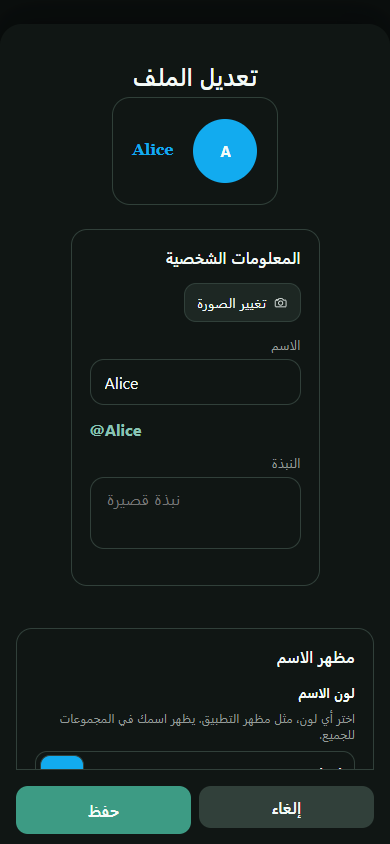
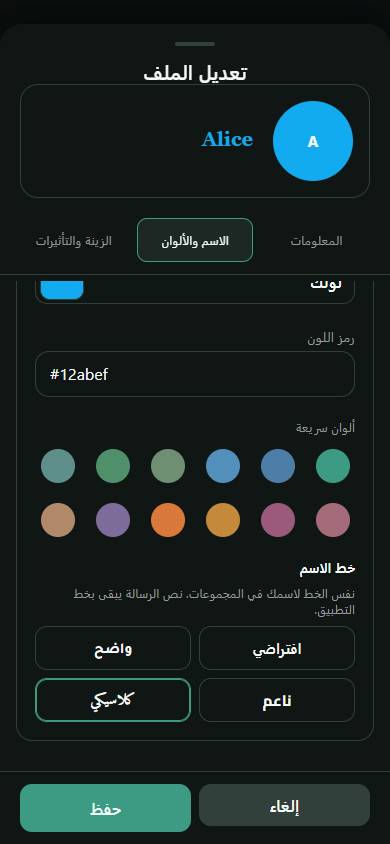
Redesign profile editor with persistent preview and proportionate vector cosmetics

diff --git a/src/pages/ProfilePage.tsx b/src/pages/ProfilePage.tsx
@@ -37,6 +37,9 @@ export default function ProfilePage({ embedded = false, onShowSettings, scrollHo
   const photoRef = useRef<HTMLInputElement>(null);
   const bannerRef = useRef<HTMLInputElement>(null);
   const [editing, setEditing] = useState(false);
+  const [editorTab, setEditorTab] = useState<'details' | 'name' | 'effects'>('details');
+  const editorFields = useRef<HTMLDivElement>(null);
+  const editorDialog = useRef<HTMLDivElement>(null);
   const [confirmLeave, setConfirmLeave] = useState(false);
   const [bannerPreview, setBannerPreview] = useState('');
   const [displayName, setDisplayName] = useState(currentUser.displayName);
@@ -57,6 +60,22 @@ export default function ProfilePage({ embedded = false, onShowSettings, scrollHo
     return () => window.removeEventListener('focus', onFocus);
   }, [scrollHold]);
 
+  useEffect(() => {
+    if (!editing) return;
+    const previous = document.activeElement instanceof HTMLElement ? document.activeElement : null;
+    const frame = window.requestAnimationFrame(() => editorDialog.current?.querySelector<HTMLButtonElement>('[role="tab"][aria-selected="true"]')?.focus());
+    const onKey = (event: KeyboardEvent) => {
+      if (event.key === 'Escape') { event.preventDefault(); setEditing(false); return; }
+      if (event.key !== 'Tab') return;
+      const controls = [...(editorDialog.current?.querySelectorAll<HTMLElement>('button:not(:disabled), input:not(:disabled), textarea:not(:disabled), [tabindex="0"]') ?? [])].filter(node => node.getClientRects().length > 0 && node.tabIndex >= 0);
+      const first = controls[0], last = controls.at(-1);
+      if (event.shiftKey && document.activeElement === first) { event.preventDefault(); last?.focus(); }
+      else if (!event.shiftKey && document.activeElement === last) { event.preventDefault(); first?.focus(); }
+    };
+    document.addEventListener('keydown', onKey);
+    return () => { window.cancelAnimationFrame(frame); document.removeEventListener('keydown', onKey); previous?.focus(); };
+  }, [editing]);
+
   const openEditor = () => {
     setDisplayName(currentUser.displayName);
     setDraftBio(currentUser.bio);
@@ -65,6 +84,7 @@ export default function ProfilePage({ embedded = false, onShowSettings, scrollHo
     setDraftDecoration(currentUser.avatarDecoration ?? 'none');
     setDraftEffect(currentUser.profileEffect ?? 'none');
     setSaveError('');
+    setEditorTab('details');
     setEditing(true);
   };
 
@@ -252,16 +272,27 @@ export default function ProfilePage({ embedded = false, onShowSettings, scrollHo
         )}
       {editing &&
         createPortal(
-          <div className="app-scrim sheet" onClick={() => setEditing(false)}>
-            <div className="app-sheet profile-pop profile-editor" role="dialog" aria-label="تعديل الملف" onClick={(event) => event.stopPropagation()}>
-              <span className="app-handle" />
+          <div className="app-scrim sheet profile-editor-scrim" onClick={() => setEditing(false)}>
+            <div ref={editorDialog} className="app-sheet profile-pop profile-editor" role="dialog" aria-modal="true" aria-label="تعديل الملف" onClick={(event) => event.stopPropagation()}>
+              <div className="profile-editor-header"><span className="app-handle" />
               <h2>تعديل الملف</h2>
               <div className="cosmetic-preview" aria-label="معاينة مظهر الملف">
                 <ProfileEffect effect={draftEffect} color={draftColor} />
-                <Avatar name={displayName || currentUser.displayName} color={draftColor} size={64} src={currentUser.avatarUrl} decoration={draftDecoration} animate={animate} />
+                <Avatar name={displayName || currentUser.displayName} color={draftColor} size={80} src={currentUser.avatarUrl} decoration={draftDecoration} animate={animate} />
                 <strong {...displayNameStyleForUser(draftColor, draftFont)} dir="auto">{displayName || currentUser.displayName}</strong>
               </div>
-              <section className="profile-editor-section"><h3>المعلومات الشخصية</h3>
+              </div>
+              <div className="profile-editor-tabs" role="tablist" aria-label="أقسام تعديل الملف" onKeyDown={event => {
+                const tabs = ['details', 'name', 'effects'] as const;
+                const next = event.key === 'Home' ? 0 : event.key === 'End' ? 2 : event.key === 'ArrowLeft' ? (tabs.indexOf(editorTab) + 1) % 3 : event.key === 'ArrowRight' ? (tabs.indexOf(editorTab) + 2) % 3 : -1;
+                if (next < 0) return;
+                event.preventDefault(); setEditorTab(tabs[next]); editorFields.current?.scrollTo(0, 0);
+                document.getElementById('profile-tab-' + tabs[next])?.focus();
+              }}>
+                {([{ id: 'details', label: 'المعلومات' }, { id: 'name', label: 'الاسم والألوان' }, { id: 'effects', label: 'الزينة والتأثيرات' }] as const).map(tab => <button type="button" key={tab.id} id={'profile-tab-' + tab.id} role="tab" aria-selected={editorTab === tab.id} aria-controls={'profile-panel-' + tab.id} tabIndex={editorTab === tab.id ? 0 : -1} onClick={() => { setEditorTab(tab.id); editorFields.current?.scrollTo(0, 0); }}>{tab.label}</button>)}
+              </div>
+              <div className="profile-editor-fields" ref={editorFields}>
+              <section id="profile-panel-details" role="tabpanel" aria-labelledby="profile-tab-details" hidden={editorTab !== 'details'} className="profile-editor-section"><h3>المعلومات الشخصية</h3>
               <button type="button" className="profile-photo-action" onClick={pickPhoto}><IonIcon icon={cameraOutline} /> تغيير الصورة</button>
               <label className="group-name">
                 <span>الاسم</span>
@@ -273,7 +304,7 @@ export default function ProfilePage({ embedded = false, onShowSettings, scrollHo
                 <textarea dir="auto" maxLength={160} value={draftBio} placeholder="نبذة قصيرة" onChange={(event) => setDraftBio(event.target.value)} />
               </label>
               </section>
-              <section className="profile-editor-section"><h3>مظهر الاسم</h3>
+              <section id="profile-panel-name" role="tabpanel" aria-labelledby="profile-tab-name" hidden={editorTab !== 'name'} className="profile-editor-section"><h3>مظهر الاسم</h3>
               <div className="profile-style-block">
                 <span className="profile-style-title">لون الاسم</span>
                 <p className="profile-style-hint">اختر أي لون، مثل مظهر التطبيق. يظهر اسمك في المجموعات للجميع.</p>
@@ -339,12 +370,12 @@ export default function ProfilePage({ embedded = false, onShowSettings, scrollHo
                 </div>
               </div>
               </section>
-              <section className="profile-editor-section"><h3>الزينة والتأثيرات</h3>
+              <section id="profile-panel-effects" role="tabpanel" aria-labelledby="profile-tab-effects" hidden={editorTab !== 'effects'} className="profile-editor-section"><h3>الزينة والتأثيرات</h3>
               <div className="profile-style-block">
                 <span className="profile-style-title">زينة الصورة</span>
-                <p className="profile-style-hint">اختر الزينة أو أزلها. القبعة تتحرك داخل الملف فقط، وتبقى ثابتة في وضع التوفير وعلى الأجهزة الضعيفة.</p>
+                <p className="profile-style-hint">اختر زينة للصورة وتأثيرًا للملف. المعاينة تبقى أمامك، والحركة تتوقف في وضع التوفير وعلى الأجهزة الضعيفة.</p>
                 <div className="cosmetic-options" role="group" aria-label="زينة الصورة">
-                  {AVATAR_DECORATIONS.map(item => <button key={item.id} type="button" aria-pressed={draftDecoration === item.id} className={draftDecoration === item.id ? 'is-on' : ''} onClick={() => setDraftDecoration(item.id)}>{item.label}</button>)}
+                  {AVATAR_DECORATIONS.map(item => <button key={item.id} type="button" aria-pressed={draftDecoration === item.id} className={draftDecoration === item.id ? 'is-on' : ''} onClick={() => setDraftDecoration(item.id)}><Avatar name={displayName || currentUser.displayName} color={draftColor} size={48} src={currentUser.avatarUrl} decoration={item.id} /><span>{item.label}</span></button>)}
                 </div>
                 <span className="profile-style-title">تأثير الملف</span>
                 <div className="cosmetic-options" role="group" aria-label="تأثير الملف">
@@ -352,6 +383,7 @@ export default function ProfilePage({ embedded = false, onShowSettings, scrollHo
                 </div>
               </div>
               </section>
+              </div>
               {saveError ? <p className="form-error">{saveError}</p> : null}
               <div className="account-actions profile-editor-footer">
                 <button type="button" onClick={() => setEditing(false)}>إلغاء</button>

diff --git a/src/components/common/ProfileCosmetics.css b/src/components/common/ProfileCosmetics.css
@@ -1,11 +1,23 @@
-.avatar-frame { position:relative; display:inline-flex; flex-shrink:0; vertical-align:middle; overflow:visible; }
-.avatar-frame::after { content:''; position:absolute; inset:-4px; border-radius:50%; pointer-events:none; border:2px solid var(--cosmetic-color); }
-.decoration-orbit::after { border-style:dashed; outline:1px solid var(--cosmetic-color); outline-offset:3px; }
-.decoration-laurel::after { border:4px double #cba759; border-left-color:var(--cosmetic-color); border-right-color:var(--cosmetic-color); }
-.decoration-prism::after { border-radius:30%; transform:rotate(45deg); border:3px solid var(--cosmetic-color); }
-.decoration-hat::after { inset:auto; width:140%; height:55%; left:-20%; top:-25%; border:0; border-radius:0; background:repeating-linear-gradient(78deg,transparent 0 8px,rgba(102,66,20,.18) 8px 9px),linear-gradient(135deg,#f3dca0,#c69843); clip-path:polygon(50% 0,100% 80%,88% 94%,50% 100%,12% 94%,0 80%); transform-origin:50% 85%; }
-.decoration-hat.is-animated::after { animation:profile-hat 4s ease-in-out infinite; }
-@keyframes profile-hat { 25% { transform:rotate(-4deg) translateY(-2px); } 75% { transform:rotate(4deg) translateY(-2px); } }
+.avatar-frame { position:relative; display:inline-flex; align-items:center; justify-content:center; flex:none; aspect-ratio:1; vertical-align:middle; overflow:visible; isolation:isolate; }
+.avatar-frame > .avatar { flex:none; aspect-ratio:1; box-shadow:none !important; }
+.avatar-frame::after { content:''; position:absolute; inset:2%; border-radius:50%; pointer-events:none; border:clamp(1px,.035em,3px) solid var(--cosmetic-color); }
+.decoration-orbit::after { border:2px dashed var(--cosmetic-color); }
+.decoration-laurel::after { border:3px double #d1af67; border-left-color:var(--cosmetic-color); border-right-color:var(--cosmetic-color); }
+.decoration-prism::after { border-radius:34%; transform:rotate(45deg); border:2px solid var(--cosmetic-color); inset:16%; }
+.decoration-hat { align-items:flex-end; }
+.decoration-hat::after, .decoration-dragon::after { display:none; }
+.avatar-artwork { position:absolute; inset:0; width:100%; height:100%; pointer-events:none; overflow:hidden; z-index:1; }
+.hat-crown { transform:scaleY(.72); transform-origin:60px 0; }
+.decoration-hat.is-animated .hat-artwork { animation:profile-hat 5s ease-in-out infinite; transform-origin:50% 25%; }
+.decoration-dragon.is-animated .dragon-artwork { animation:profile-dragon 7s ease-in-out infinite; }
+.decoration-dragon.is-animated .dragon-spark { animation:profile-ember 2.8s ease-in-out infinite; transform-origin:114px 55px; }
+.decoration-orbit.is-animated::after { animation:profile-orbit 24s linear infinite; }
+.decoration-prism.is-animated::after { animation:profile-prism 6s ease-in-out infinite; }
+@keyframes profile-hat { 25% { transform:rotate(-3deg) translateY(-1%); } 75% { transform:rotate(3deg) translateY(-1%); } }
+@keyframes profile-dragon { 30% { transform:rotate(-2deg); } 70% { transform:rotate(2deg); } }
+@keyframes profile-ember { 50% { opacity:.35; transform:translateY(-3px) scale(.8); } }
+@keyframes profile-orbit { to { transform:rotate(360deg); } }
+@keyframes profile-prism { 50% { transform:rotate(6deg); opacity:.7; } }
 .profile-hero, .member-sheet, .cosmetic-preview { position:relative; isolation:isolate; }
 .profile-effect { position:absolute; inset:0; border-radius:inherit; overflow:hidden; pointer-events:none; z-index:-1; }
 .profile-effect i { position:absolute; display:block; }
@@ -22,12 +34,43 @@
 .effect-stars.is-animated i { animation:profile-star 5s ease-in-out infinite alternate; }
 .effect-stars i:nth-child(2n) { animation-delay:-2s; }
 .effect-stars i:nth-child(3n) { animation-delay:-4s; }
+.effect-meteors i { height:2px; width:48px; background:linear-gradient(90deg,transparent,var(--cosmetic-color)); transform:rotate(-35deg); opacity:.35; top:18%; left:10%; }
+.effect-meteors i:nth-child(2) { top:65%; left:76%; }
+.effect-meteors i:nth-child(3) { top:85%; left:18%; }
+.effect-meteors i:nth-child(n+4) { display:none; }
+.effect-meteors.is-animated i { animation:profile-meteor 7s ease-in-out infinite; }
+.effect-meteors.is-animated i:nth-child(2) { animation-delay:-3s; }
+.effect-meteors.is-animated i:nth-child(3) { animation-delay:-5s; }
 @keyframes profile-aurora { to { transform:translate(12%,18%); opacity:.25; } }
 @keyframes profile-star { to { opacity:.75; transform:translateY(-8px) scale(1.3); } }
-.cosmetic-preview { padding:20px; border:1px solid var(--line,#304039); border-radius:18px; display:flex; align-items:center; gap:20px; overflow:hidden; min-height:108px; }
-.cosmetic-options { display:flex; flex-wrap:wrap; gap:8px; margin:12px 0; }
-.cosmetic-options button { padding:10px 14px; min-height:44px; border-radius:12px; border:1px solid var(--line,#304039); background:transparent; color:inherit; }
-.cosmetic-options button.is-on { border-color:var(--cosmetic-color,#3d9b84); background:rgba(61,155,132,.12); }
-.profile-editor { max-height:calc(100vh - 24px); max-height:calc(100dvh - 24px); overflow-y:auto; overscroll-behavior:contain; }
+@keyframes profile-meteor { 0%,65%,100% { opacity:0; transform:translate(0,0) rotate(-35deg); } 15% { opacity:.6; } 45% { opacity:0; transform:translate(45px,-30px) rotate(-35deg); } }
+.cosmetic-preview { padding:16px; border:1px solid var(--chatx-frame); border-radius:18px; display:flex; align-items:center; gap:20px; overflow:hidden; min-height:112px; background:var(--chatx-raised); }
+.cosmetic-preview strong { min-width:0; overflow-wrap:anywhere; font-size:20px; }
+.cosmetic-options { display:grid; grid-template-columns:repeat(2,minmax(0,1fr)); gap:10px; margin:12px 0; }
+.cosmetic-options button { padding:12px; min-height:48px; border-radius:12px; border:1px solid var(--chatx-frame); background:transparent; color:inherit; }
+.cosmetic-options button.is-on { border-color:var(--chatx-accent); background:var(--chatx-soft); box-shadow:inset 0 0 0 1px var(--chatx-accent); }
+.profile-pop.profile-editor { display:flex; flex-direction:column; width:min(680px,100%); max-height:calc(100vh - 24px); max-height:calc(100dvh - 24px); padding:0; overflow:hidden; overscroll-behavior:contain; }
+.profile-editor-header { padding:12px 20px 14px; flex:none; }
+.profile-editor-header h2 { margin:4px 0 12px; font-size:20px; }
+.profile-editor-tabs { display:flex; padding:0 16px 12px; gap:6px; flex:none; border-bottom:1px solid var(--chatx-frame); }
+.profile-editor-tabs button { flex:1; min-width:0; min-height:44px; padding:8px 6px; border:1px solid transparent; border-radius:10px; background:transparent; color:var(--chatx-muted); font:inherit; font-size:12px; }
+.profile-editor-tabs button[aria-selected='true'] { color:var(--chatx-text); background:var(--chatx-soft); border-color:var(--chatx-accent); }
+.profile-editor-tabs button:focus-visible { outline:2px solid var(--chatx-accent); outline-offset:2px; }
+.profile-editor-fields { min-height:0; overflow-y:auto; overscroll-behavior:contain; padding:0 16px; flex:1; }
+.profile-editor-fields .profile-editor-section { margin:16px 0; }
+.profile-editor-fields [hidden] { display:none; }
+.profile-editor .profile-editor-footer { position:static; flex:none; padding:12px 20px max(12px,env(safe-area-inset-bottom)); margin:0; border-top:1px solid var(--chatx-frame); background:var(--chatx-surface); }
 .profile-pop .user-card-banner + .avatar-frame { margin-top:-36px; position:relative; }
-@media (prefers-reduced-motion:reduce) { .profile-effect.is-animated i, .decoration-hat.is-animated::after { animation:none; } }
+@media (min-width:760px) { .profile-editor-tabs button { font-size:14px; } .profile-editor-fields { max-height:48vh; } }
+@media (max-height:550px) { .profile-editor-header { padding-top:4px; } .profile-editor-header h2 { margin:0 0 4px; font-size:16px; } .profile-editor-header .cosmetic-preview { min-height:72px; padding:8px 12px; } .profile-editor-header .avatar-frame, .profile-editor-header .avatar { transform:scale(.8); margin:-8px; } }
+@media (prefers-reduced-motion:reduce) { .profile-effect.is-animated i, .avatar-frame.is-animated::after, .avatar-frame.is-animated .avatar-artwork, .avatar-frame.is-animated .dragon-spark { animation:none; } }
+
+.cosmetic-options[aria-label="زينة الصورة"] button { display:flex; flex-direction:column; align-items:center; justify-content:center; gap:10px; min-height:100px; }
+
+.profile-editor-header, .profile-editor-tabs, .profile-editor-fields, .profile-editor .profile-editor-footer { width:100%; box-sizing:border-box; }
+
+.app-scrim.profile-editor-scrim { justify-content:center; }
+@media (min-width:760px) { .app-scrim.profile-editor-scrim { align-items:center; padding:12px; } .profile-pop.profile-editor { border-radius:22px; } }
+
+.decoration-prism::after { display:none; }
+.decoration-prism.is-animated .prism-artwork { animation:profile-prism 6s ease-in-out infinite; }

diff --git a/src/components/common/AvatarArtwork.tsx b/src/components/common/AvatarArtwork.tsx
@@ -1,0 +1,38 @@
+import type { AvatarDecoration } from '../../lib/profileCosmetics';
+
+/** Original local vector artwork; no downloads, filters, or external animation runtime. */
+export default function AvatarArtwork({ kind }: { kind: AvatarDecoration }) {
+  if (kind === 'prism') return <svg className="avatar-artwork prism-artwork" viewBox="0 0 120 120" aria-hidden="true">
+    <path d="M60 3L109 31V89L60 117L11 89V31Z" fill="none" stroke="var(--cosmetic-color)" strokeWidth="3" strokeLinejoin="round" />
+    <path d="M11 31L60 3L109 31M11 89L60 117L109 89" fill="none" stroke="#c9eee4" strokeWidth="1.5" strokeLinejoin="round" />
+    <path d="M58 2L60 8L62 2M108 87L102 89L108 91M12 29L18 31L12 33" fill="none" stroke="#f4f1cc" strokeWidth="2" />
+  </svg>;
+  if (kind === 'hat') return <svg className="avatar-artwork hat-artwork" viewBox="0 0 120 120" aria-hidden="true">
+    <g className="hat-crown">
+      <path d="M8 28Q32 15 60 2Q86 15 112 28Q103 39 60 40Q20 39 8 28Z" fill="#93692d" />
+      <path d="M8 28L60 2L112 28Q64 43 8 28Z" fill="#e7c47e" />
+      <path d="M60 2L112 28Q91 34 65 35Z" fill="#c79b50" />
+      <path d="M60 2L8 28Q31 33 46 33Z" fill="#f1d99a" />
+      <path d="M14 26Q60 38 107 26M23 22Q60 32 99 22M33 17Q60 25 87 17M43 12Q60 18 77 12" fill="none" stroke="#a57b39" strokeWidth="1.1" opacity=".65" />
+      <path d="M60 3L21 28M60 3L38 32M60 3L56 34M60 3L75 32M60 3L95 29" stroke="#fff0ba" strokeWidth="1" opacity=".65" />
+      <path d="M8 28Q60 45 112 28" fill="none" stroke="#805823" strokeWidth="2.5" />
+      <path d="M12 27L59 2" stroke="#fff2c1" strokeWidth="1.4" fill="none" />
+    </g>
+  </svg>;
+  if (kind === 'dragon') return <svg className="avatar-artwork dragon-artwork" viewBox="0 0 120 120" aria-hidden="true">
+    <g className="dragon-body">
+      <path d="M99 29C74-1 28 5 12 41C-2 75 17 108 48 111C27 105 14 84 16 66" fill="none" stroke="#123d43" strokeWidth="11" strokeLinecap="round" />
+      <path d="M99 29C74-1 28 5 12 41C-2 75 17 108 48 111C27 105 14 84 16 66" fill="none" stroke="#65cabb" strokeWidth="6" strokeLinecap="round" />
+      <path d="M20 30L14 18L30 22M37 14L37 3L48 10M58 9L67 0L69 12M79 16L90 8L89 24M8 48L0 46L6 58M9 84L2 92L17 96" fill="#b4edce" stroke="#225c60" strokeWidth="1.5" strokeLinejoin="round" />
+      <path d="M18 31L26 35M31 20L38 25M47 14L51 20M66 15L64 20M81 21L76 25M12 49L18 52M10 66L16 66M17 91L23 86" stroke="#246a67" strokeWidth="2.5" strokeLinecap="round" />
+      <path d="M89 24L95 10L100 23L112 19L109 29L117 34L109 45L99 48L91 38Z" fill="#388e84" stroke="#123d43" strokeWidth="2" strokeLinejoin="round" />
+      <path d="M94 20L90 8L97 15M105 24L114 13L111 25" fill="#edcf83" stroke="#735c36" strokeWidth="1.3" />
+      <path d="M103 34L111 34L108 39L102 40Z" fill="#91d7bd" />
+      <path d="M98 29L104 28" stroke="#fff2b2" strokeWidth="3" strokeLinecap="round" />
+      <circle cx="102" cy="28" r="1.4" fill="#142d31" />
+      <path d="M109 42Q116 45 115 51M99 46L102 52" stroke="#edd290" strokeWidth="1.5" fill="none" />
+    </g>
+    <path className="dragon-spark" d="M111 54L115 49L118 56L114 62Z" fill="#f5cc70" />
+  </svg>;
+  return null;
+}

diff --git a/src/components/common/Avatar.tsx b/src/components/common/Avatar.tsx
@@ -1,6 +1,7 @@
 import { initials } from '../../lib/conversation';
 import type { CSSProperties } from 'react';
 import { avatarDecoration, type AvatarDecoration } from '../../lib/profileCosmetics';
+import AvatarArtwork from './AvatarArtwork';
 import './ProfileCosmetics.css';
 
 type AvatarProps = {
@@ -14,17 +15,18 @@ type AvatarProps = {
 };
 
 export default function Avatar({ name, color, size = 44, slot, src, decoration, animate = false }: AvatarProps) {
-  const kind = avatarDecoration(decoration);
+  const kind = size <= 24 ? 'none' : avatarDecoration(decoration);
+  const faceSize = kind === 'none' ? size : Math.round(size * (kind === 'hat' ? 0.78 : kind === 'dragon' ? 0.74 : 0.82));
   const face = (
     <span
       slot={kind === 'none' ? slot : undefined}
       className="avatar"
-      style={{ width: size, height: size, background: src ? '#24312c' : color, fontSize: size <= 18 ? 8 : size < 36 ? 12 : 15 }}
+      style={{ width: faceSize, height: faceSize, background: src ? '#24312c' : color, fontSize: size <= 18 ? 8 : size < 36 ? 12 : 15 }}
       aria-hidden="true"
     >
       {src ? <img src={src} alt="" loading="lazy" decoding="async" /> : initials(name)}
     </span>
   );
   if (kind === 'none') return face;
-  return <span slot={slot} className={`avatar-frame decoration-${kind}${animate ? ' is-animated' : ''}`} style={{ width: size, height: size, '--cosmetic-color': color } as CSSProperties} aria-hidden="true">{face}</span>;
+  return <span slot={slot} className={`avatar-frame decoration-${kind}${animate ? ' is-animated' : ''}`} style={{ width: size, height: size, minWidth: size, minHeight: size, '--cosmetic-color': color } as CSSProperties} aria-hidden="true">{face}<AvatarArtwork kind={kind} /></span>;
 }

diff --git a/server/src/migrate.ts b/server/src/migrate.ts
@@ -6,7 +6,7 @@ export async function migrate(pool: Pool) {
     id text PRIMARY KEY,
     applied_at timestamptz NOT NULL DEFAULT now()
   )`);
-  for (const id of ['001_auth', '002_hardening', '003_directory', '004_profile', '005_avatar', '006_presence', '007_home', '008_inbox', '009_reactions', '010_chats', '011_inbox_unread', '012_message_images', '013_message_files', '014_room_profiles', '015_group_turns', '016_room_events', '017_turn_notice', '018_low_bandwidth', '019_google_subject', '020_turn_notifications', '021_owner_audit', '022_e2e', '023_e2e_backup_check', '024_push_tokens', '025_user_style', '026_profile_cosmetics']) {
+  for (const id of ['001_auth', '002_hardening', '003_directory', '004_profile', '005_avatar', '006_presence', '007_home', '008_inbox', '009_reactions', '010_chats', '011_inbox_unread', '012_message_images', '013_message_files', '014_room_profiles', '015_group_turns', '016_room_events', '017_turn_notice', '018_low_bandwidth', '019_google_subject', '020_turn_notifications', '021_owner_audit', '022_e2e', '023_e2e_backup_check', '024_push_tokens', '025_user_style', '026_profile_cosmetics', '027_profile_artwork']) {
     const existing = await pool.query('SELECT id FROM schema_migrations WHERE id = $1', [id]);
     if ((existing.rowCount ?? 0) > 0) continue;
     const sql = await readFile(new URL(`./db/${id}.sql`, import.meta.url), 'utf8');

diff --git a/server/test/reliability.test.ts b/server/test/reliability.test.ts
@@ -172,9 +172,9 @@ it('verifies PostgreSQL migrations, cursor SQL and transaction rollback', { skip
       assert.equal((await repo.findUserByGoogleSub(person.id))?.id, person.id);
       await repo.createSession(hashSession(person.id), person.id, new Date(now.getTime() + 60000));
       assert.equal((await repo.findSessionUser(hashSession(person.id), now))?.id, person.id);
-      assert.equal(await repo.updateMemberProfile(person.id, { avatarDecoration: 'hat', profileEffect: 'aurora' }), 'ok');
-      assert.equal((await repo.findUserById(person.id))?.avatarDecoration, 'hat');
-      assert.equal((await repo.listUsers()).find(user => user.id === person.id)?.profileEffect, 'aurora');
+      assert.equal(await repo.updateMemberProfile(person.id, { avatarDecoration: 'dragon', profileEffect: 'meteors' }), 'ok');
+      assert.equal((await repo.findUserById(person.id))?.avatarDecoration, 'dragon');
+      assert.equal((await repo.listUsers()).find(user => user.id === person.id)?.profileEffect, 'meteors');
       assert.equal(await repo.updateMemberProfile(person.id, { avatarDecoration: 'none', profileEffect: 'none' }), 'ok');
       assert.equal((await repo.findSessionUser(hashSession(person.id), now))?.avatarDecoration, 'none');
       assert.ok((await repo.listHome(person.id, now)).length > 0);

diff --git a/src/components/common/ProfileCosmetics.test.tsx b/src/components/common/ProfileCosmetics.test.tsx
@@ -40,3 +40,16 @@ it('pauses animations when the page is hidden and removes its listener on unmoun
   unmount();
   expect(remove).toHaveBeenCalledWith('visibilitychange', expect.any(Function));
 });
+
+it('reserves a square decoration slot and keeps tiny avatars unobstructed', () => {
+  const { container, rerender } = render(<Avatar name="User" color="#3d9b84" size={36} decoration="dragon" />);
+  const frame = container.querySelector<HTMLElement>('.avatar-frame')!;
+  expect(frame.style.width).toBe('36px');
+  expect(frame.style.height).toBe('36px');
+  expect(frame.style.minWidth).toBe('36px');
+  expect(container.querySelector('.dragon-artwork')).not.toBeNull();
+  expect(container.querySelector('.is-animated')).toBeNull();
+  rerender(<Avatar name="User" color="#3d9b84" size={18} decoration="dragon" />);
+  expect(container.querySelector('.avatar-frame')).toBeNull();
+  expect(container.querySelector<HTMLElement>('.avatar')!.style.width).toBe('18px');
+});

diff --git a/server/test/profile.test.ts b/server/test/profile.test.ts
@@ -201,6 +201,9 @@ describe('profile', () => {
     assert.equal((await patch({ avatarDecoration: 'https://example.com/hat.gif', profileEffect: 'stars' })).status, 401);
     assert.equal((await patch({ profileEffect: '<script>' })).status, 401);
     assert.equal((await deps.repo.findUserById(member.id))?.avatarDecoration, 'hat');
+    assert.equal((await patch({ avatarDecoration: 'dragon', profileEffect: 'meteors' })).status, 200);
+    assert.equal((await deps.repo.findUserById(member.id))?.avatarDecoration, 'dragon');
+    assert.equal((await deps.repo.findUserById(member.id))?.profileEffect, 'meteors');
     assert.equal((await patch({ avatarDecoration: null, profileEffect: 'none' })).status, 200);
     assert.equal((await deps.repo.findUserById(member.id))?.avatarDecoration, 'none');
     assert.equal((await deps.repo.findUserById(member.id))?.profileEffect, 'none');

diff --git a/src/lib/profileCosmetics.ts b/src/lib/profileCosmetics.ts
@@ -4,11 +4,13 @@ export const AVATAR_DECORATIONS = [
   { id: 'laurel', label: 'إكليل' },
   { id: 'prism', label: 'منشور' },
   { id: 'hat', label: 'قبعة الخيزران' },
+  { id: 'dragon', label: 'التنين' },
 ] as const;
 export const PROFILE_EFFECTS = [
   { id: 'none', label: 'بدون تأثير' },
   { id: 'aurora', label: 'شفق' },
   { id: 'stars', label: 'نجوم' },
+  { id: 'meteors', label: 'شهب' },
 ] as const;
 export type AvatarDecoration = typeof AVATAR_DECORATIONS[number]['id'];
 export type ProfileEffectId = typeof PROFILE_EFFECTS[number]['id'];

diff --git a/server/src/profile.ts b/server/src/profile.ts
@@ -46,7 +46,7 @@ export function cleanMessageFont(value: unknown) {
 }
 
 export function cleanCosmetic(value: unknown, kind: 'avatar' | 'profile') {
-  const choices = kind === 'avatar' ? ['none', 'orbit', 'laurel', 'prism', 'hat'] : ['none', 'aurora', 'stars'];
+  const choices = kind === 'avatar' ? ['none', 'orbit', 'laurel', 'prism', 'hat', 'dragon'] : ['none', 'aurora', 'stars', 'meteors'];
   if (value === null) return { ok: true as const, value: 'none' };
   return typeof value === 'string' && choices.includes(value) ? { ok: true as const, value } : { ok: false as const };
 }

diff --git a/docs/PROFILE-COSMETICS.md b/docs/PROFILE-COSMETICS.md
@@ -2,16 +2,22 @@
 
 Dans **الحساب → الملف الشخصي → تعديل الملف**, chaque membre peut prévisualiser, sauvegarder ou retirer sa décoration et son effet. **قبعة الخيزران** est le chapeau conique animé ; **بدون إطار** le retire. **بدون تأثير** retire l’ambiance du profil. Annuler ne change pas le choix sauvegardé.
 
-Les décorations disponibles sont le chapeau, le cadre orbital, l’écusson double et le cadre prismatique. Les deux ambiances sont les étoiles et l’aurore. La couleur existante du compte sert aussi aux cadres et aux ambiances. Les dessins sont propres à ChatX, réalisés en CSS ; aucun asset Discord n’est importé. Référence fonctionnelle : [personnalisation des profils Discord](https://support.discord.com/hc/en-us/articles/4403147417623-Custom-Profiles).
+Les décorations disponibles sont le chapeau tressé, le dragon, le cadre orbital, l’écusson double et le cadre prismatique. Les ambiances sont les étoiles, l’aurore et les étoiles filantes. La couleur existante du compte sert aussi aux cadres et aux ambiances. Les dessins sont propres à ChatX, réalisés en SVG et CSS ; aucun asset Discord n’est importé. Référence fonctionnelle : [personnalisation des profils Discord](https://support.discord.com/hc/en-us/articles/4403147417623-Custom-Profiles).
 
 ## Performance et sécurité
 
 - Aucun GIF, vidéo, image externe ou boucle JavaScript de rendu. Les seuls éléments animés utilisent des transformations et de l’opacité.
-- Le chapeau s’anime uniquement dans les profils et leur prévisualisation ; les avatars dans le chat et les listes restent immobiles.
+- Les décorations s’animent uniquement dans les profils et leur prévisualisation ; les avatars dans le chat et les listes restent immobiles.
 - Les animations s’arrêtent dans les pages masquées, en économie de données, sur les appareils à deux cœurs ou à deux Go de mémoire, et avec la préférence système de réduction des mouvements. La décoration reste visible en version fixe.
-- Le serveur n’accepte que les identifiants du catalogue, jamais des URL ou du code. La migration `026_profile_cosmetics` ajoute deux colonnes avec valeurs par défaut `none` et contraintes SQL. Les comptes existants gardent leur apparence initiale.
+- Le serveur n’accepte que les identifiants du catalogue, jamais des URL ou du code. La migration `026_profile_cosmetics` ajoute deux colonnes avec valeurs par défaut `none` et contraintes SQL. `027_profile_artwork` étend le catalogue au dragon et aux étoiles filantes. Les comptes existants gardent leur apparence initiale.
 - Les choix sont associés au compte, envoyés dans le répertoire des membres et conservés après rechargement. L’effacement du profil retire aussi ses effets.
 
 ## Vérifications
 
-Tests interface et serveur, sauvegarde/retrait dans PostgreSQL 16, compilation Android. Scénario Chrome sur mobile et ordinateur : prévisualisation, sauvegarde, rechargement, visibilité depuis un second compte, avatar immobile dans le chat, arrêt en économie et en mouvements réduits, annulation et retrait. Aucun asset externe n’est demandé par ce scénario.
+Tests interface et serveur et compilation Android. Le scénario PostgreSQL vérifie aussi le nouveau catalogue ; le moteur Docker local doit être disponible pour l’exécuter. Scénario Chrome sur mobile et ordinateur : prévisualisation, sauvegarde, rechargement, visibilité depuis un second compte, avatar immobile dans le chat, arrêt en économie et en mouvements réduits, annulation et retrait. Aucun asset externe n’est demandé par ce scénario.
+
+## Éditeur et affichage
+
+Trois onglets séparent les informations, le style du nom et les effets. La prévisualisation et les actions restent visibles ; seul le panneau de réglages défile. Les onglets suivent les commandes clavier du [modèle W3C](https://www.w3.org/WAI/ARIA/apg/patterns/tabs/), avec flèches, début et fin. Échap ferme le dialogue et le focus revient à son déclencheur.
+
+Les dessins occupent un emplacement carré fixe dans le chat et son en-tête. Les avatars de 24 px ou moins restent sans décoration pour conserver la lisibilité. Les versions animées sont réservées aux profils ouverts ; elles respectent aussi la [réduction des mouvements](https://support.discord.com/hc/en-us/articles/360040613412-Reduced-Motion-Setting).
